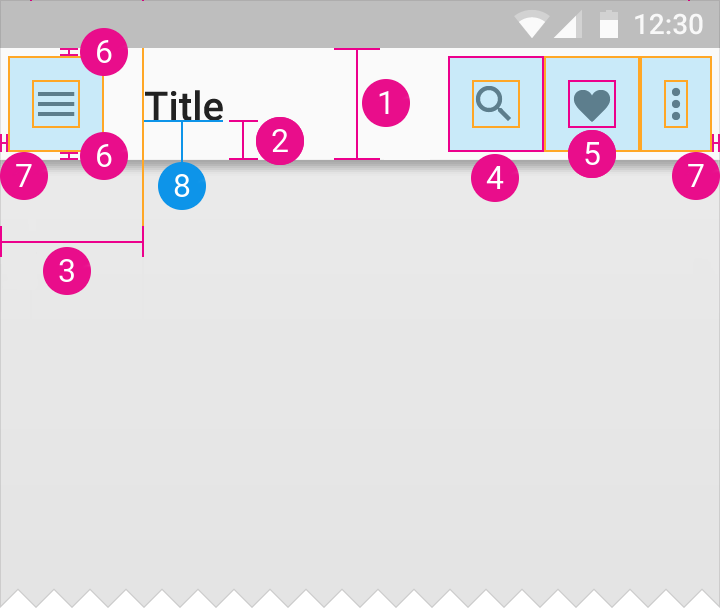
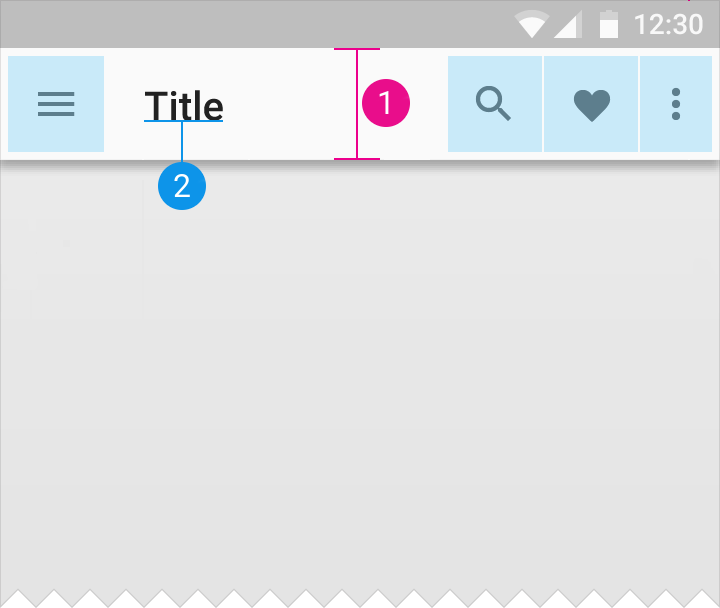
Fix app bar values

diff --git a/docs/layout/structure.md b/docs/layout/structure.md
@@ -8,26 +8,34 @@
 
 ## App bar
 
-### Default
+### Common values
+
+<img class="figure" src="../../images/layout_structure_appbar_common_values.png" alt="Common values"/>
+
+1. `@dimen/material_app_bar_title_edge_margin_start`
+2. `@dimen/material_app_bar_icon_action_size`
+3. `@dimen/material_app_bar_icon_action_icon_size`
+4. `@dimen/material_app_bar_icon_action_margin_horizontal`
+5. `@dimen/material_app_bar_icon_action_margin_vertical`
+
+### Default size
 
 <img class="figure" src="../../images/layout_structure_appbar_phone_default.png" alt="App bar default"/>
 
 1. `@dimen/material_app_bar_default_height`
-2. `@dimen/material_app_bar_default_title_padding_bottom`
-3. `@dimen/material_app_bar_title_edge_margin_start`
-4. `@dimen/material_app_bar_icon_action_size`
-5. `@dimen/material_app_bar_icon_action_icon_size`
-6. `@dimen/material_app_bar_icon_action_margin_vertical`
-7. `@dimen/material_app_bar_icon_action_margin_horizontal`
-8. `@dimen/material_app_bar_default_title_text_size`
+2. `@dimen/material_app_bar_default_title_text_size`
 
-### Extended
+### Extended size
 
 <img class="figure" src="../../images/layout_structure_appbar_phone_extended.png" alt="App bar extended"/>
 
 1. `@dimen/material_app_bar_extended_height`
-2. `@dimen/material_app_bar_extended_title_padding_bottom`
-3. `@dimen/material_app_bar_extended_title_text_size`
+2. `@dimen/material_app_bar_default_height`
+3. `@dimen/material_app_bar_extended_extension_height`
+4. `@dimen/material_app_bar_extended_title_text_size`
+
+Note that on tablet and on phones in landscape, the extension height is equal to 1 increment, as the
+total extended height is equal to 2 increments.
 
 ---
 

diff --git a/docs/about/changelog.md b/docs/about/changelog.md
@@ -12,9 +12,11 @@
 
 **Structure**
 
-- Fix status bar size value for API <= 22
+- Fix status bar size value for API <= 22 (was 24dp, should have been 25dp)
 - Rename `@dimen/material_app_bar_height_default` to `@dimen/material_app_bar_default_height`
 - Fix app bar size on phones in landscape
+- Deprecate bottom padding values of the app bar's title
+- Fix `@dimen/material_app_bar_icon_action_size` (was 40dp, should have been 48dp)
 
 
 ----
